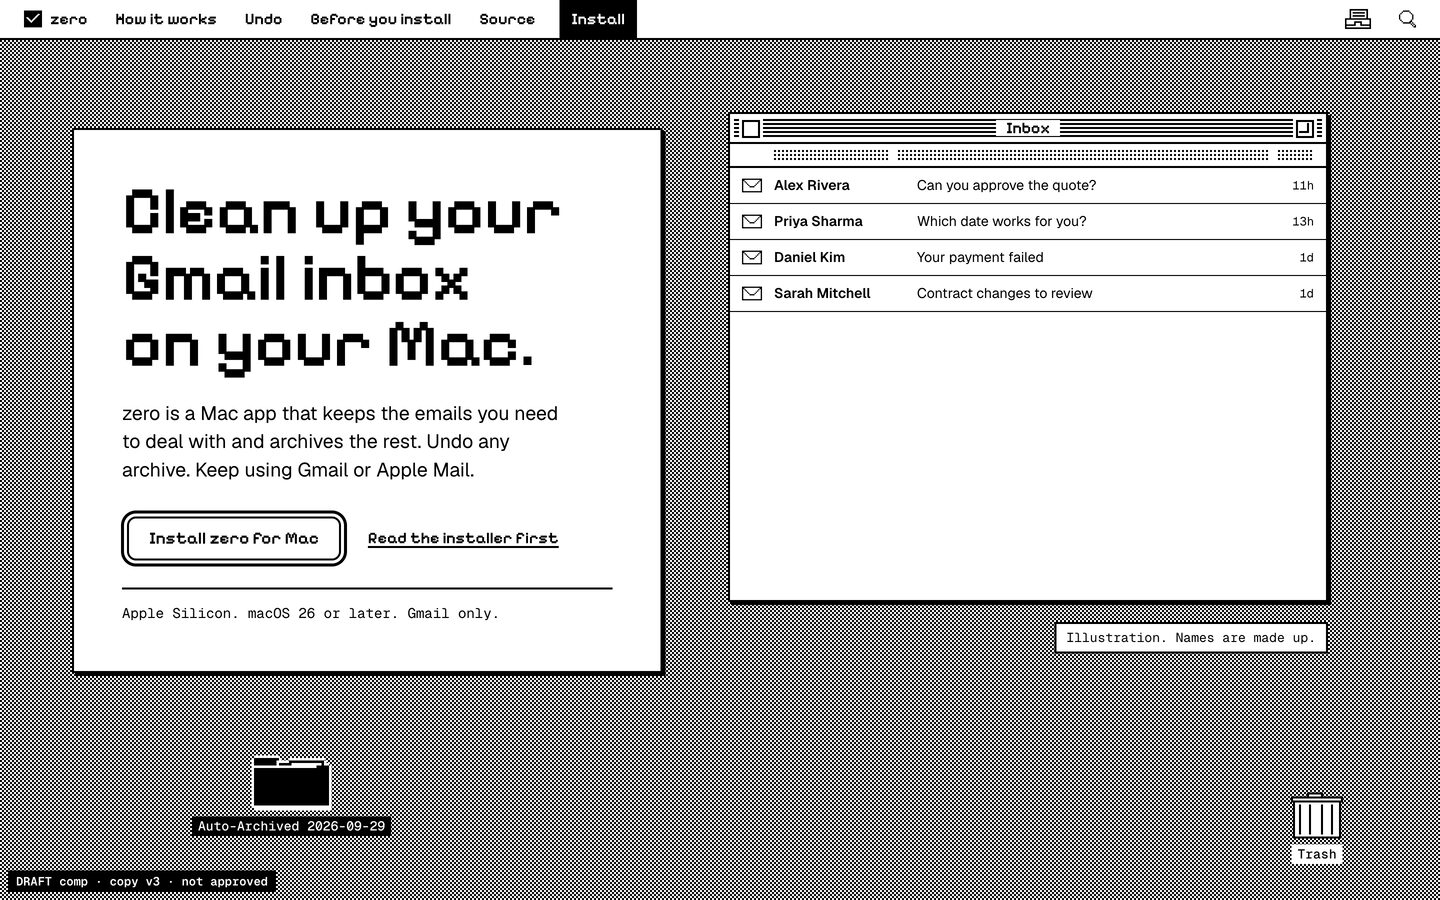
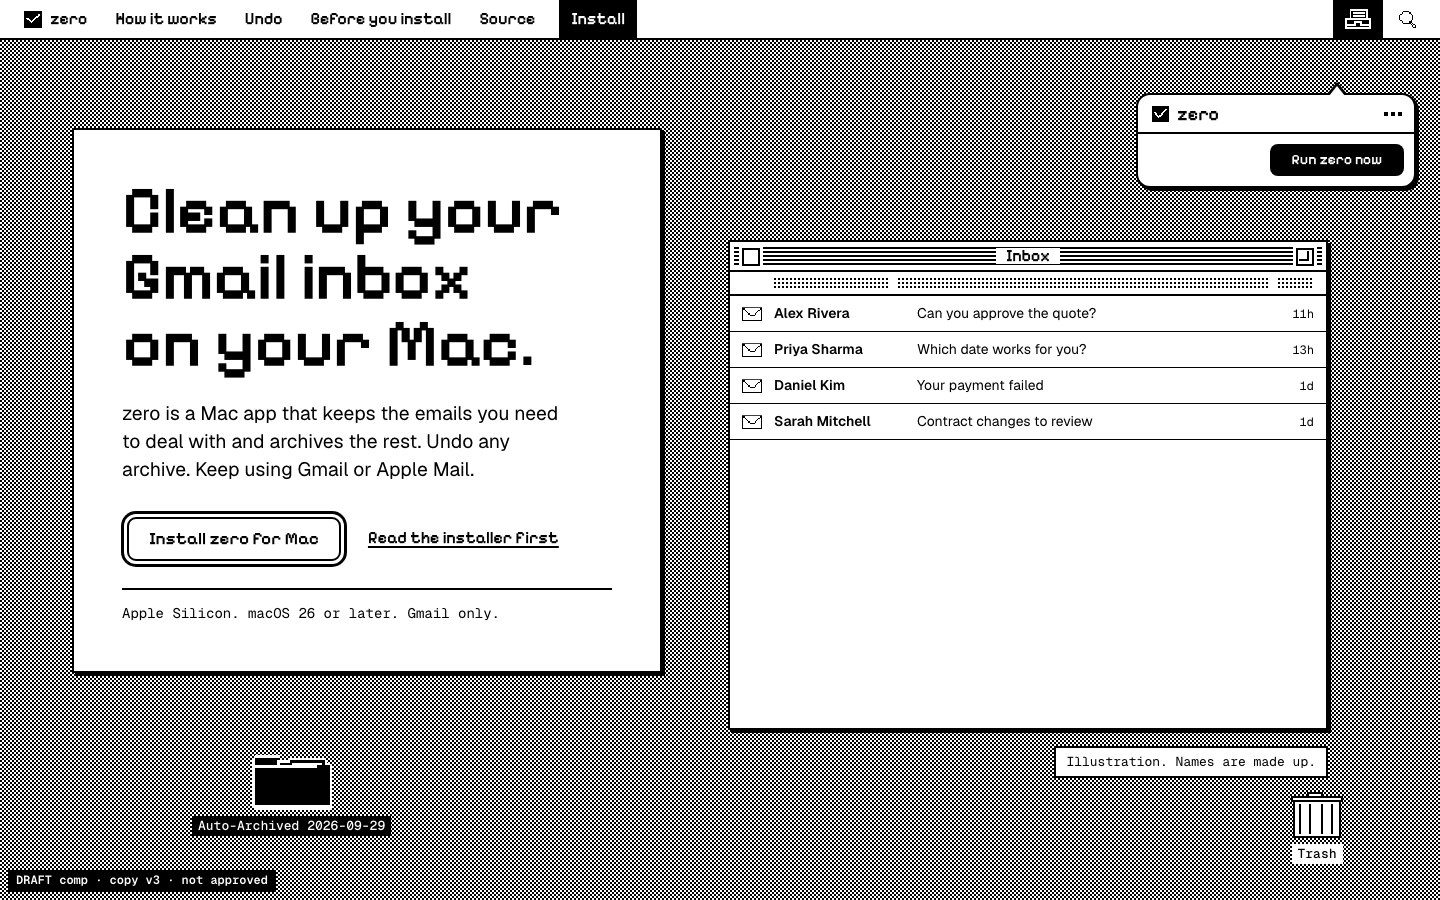
redesign-3/02: hero B rework, zero is the only actor (popover, Working…, watch drag)

diff --git a/missions/website-redesign-3/slices/02-references-and-comps/proof/comps/hero-b/index.html b/missions/website-redesign-3/slices/02-references-and-comps/proof/comps/hero-b/index.html
@@ -6,10 +6,13 @@
 <title>Hero B · Finder inbox · zero redesign 3 comp (draft)</title>
 <link rel="stylesheet" href="../kit/kit.css">
 <style>
-/* Hero B: "Your inbox is a Finder window." One big Inbox list window is the hero. zero selects the routine mail
-   (the rows invert one by one), then the selection is dragged as outlines into today's dated folder, exactly the way
-   a Mac drags files. What remains is the four emails that need you. No popover and no counter: the list itself is the proof.
-   Strings: only the hero-panel rows, "Inbox", the folder label and Trash (all already counted in COPY v3). */
+/* Hero B (owner's pick, reworked so zero is the actor): "Your inbox is a Finder window."
+   zero's menu-bar popover opens from its tray icon. Run zero now turns to Working…, and only then does a cursor appear:
+   zero's watch, which comes out of the Working… button, selects the routine mail (rows invert one by one) and drags the
+   selection as outlines into today's dated folder the way a Mac drags files. The watch goes back to the button, the button
+   reads Run zero now again and the watch disappears. There is never an arrow pointer, so nobody's hand moves the mail.
+   Strings: the popover's zero mark, Run zero now, Working…, the hero-panel rows and ages, "Inbox", the folder label,
+   Trash and the caption (all in COPY v3, recounted by the copywriter). */
 .hero{position:relative;min-height:calc(100vh - 40px);padding:56px var(--pad) 48px;display:grid;gap:28px;justify-items:center}
 .sheet{position:relative;z-index:3;padding:clamp(24px,3.4vw,48px);width:100%;max-width:640px}
 .sheet h1{font-size:clamp(42px,4.7vw,70px);line-height:.98;margin-bottom:22px}
@@ -42,17 +45,34 @@
 .folder svg{width:80px}
 .trash svg{width:52px}
 svg.px.f-empty{display:none}
-.drop{position:absolute;z-index:37;border:2px dashed var(--ink);pointer-events:none}
+/* drag outlines pass behind the headline sheet (z 3), never across its text, and over the Inbox (same z, later in DOM) */
+.drop{position:absolute;z-index:2;border:2px dashed var(--ink);pointer-events:none}
+
+/* zero's popover: only its head and its run button (no count, no rows: the Inbox window is the proof) */
+.pop{z-index:4;width:100%;max-width:280px;justify-self:end}
+.pop .zp-foot{margin-top:0;border-top:0}
+.zp-run{min-width:9.6em;justify-content:center}
+.zp-run .busy{display:none}
 
 @media (min-width:1240px){
   .hero{display:block;min-height:max(860px,calc(100vh - 40px))}
   .sheet{position:absolute;left:var(--pad);top:88px;width:min(600px,41vw)}
-  #inbox{position:absolute;right:calc(var(--pad) + 40px);top:72px;width:min(600px,42vw)}
-  .hero > .caption{position:absolute;right:calc(var(--pad) + 40px);top:calc(72px + 30px + 26px + 12 * 36px + 22px)}
+  .pop{position:absolute;right:24px;top:53px}
+  #inbox{position:absolute;right:calc(var(--pad) + 40px);top:200px;width:min(600px,42vw)}
+  .hero > .caption{position:absolute;right:calc(var(--pad) + 40px);top:calc(200px + 30px + 26px + 12 * 36px + 18px)}
   .folder{position:absolute;left:calc(var(--pad) + 120px);bottom:64px}
   .trash{position:absolute;right:48px;bottom:36px}
 }
 @media (max-width:1239px){
+  .pop{max-width:600px;justify-self:center;order:1}
+  /* stacked layouts: zero's popover, then the folder and Trash, then the Inbox, so the drop target is in view with the
+     button. The window fits its rows, so the finished inbox is 4 rows, not 4 rows and a blank page. The shrink happens
+     once, at the end, and only moves what is below the Inbox (the caption). */
+  .hero .files{order:2}
+  #inbox{order:3}
+  .hero > .caption{order:4}
+  #inbox .list{height:auto}
+  .pop .zp.notch::before,.pop .zp.notch::after{display:none}
   .hero .files{display:flex;justify-content:space-between;align-items:end;width:100%;max-width:640px}
   .hero > .caption{justify-self:center}
 }
@@ -71,11 +91,18 @@ svg.px.f-empty{display:none}
 .files{display:contents}
 
 /* ---------- earlier frames (lt-K = before frame K) ---------- */
-.lt-3 #inbox li.g{display:grid}
-.lt-3 .folder:not(.got) svg.px.f-full{display:none}
-.lt-3 .folder:not(.got) svg.px.f-empty{display:block}
-.lt-3 .folder:not(.got) .lbl{background:var(--paper);color:var(--ink)}
-.lt-3 .folder:not(.got) svg{filter:none}
+/* 0 closed popover, 1 popover open, 2-4 Working… (select, drag), 5 final: idle again */
+.lt-1 .pop{visibility:hidden}
+.lt-1 .tray{background:var(--paper)!important;color:var(--ink)!important}
+.lt-1 .tray svg{filter:none!important}
+.lt-5:not(.lt-2) .zp-run{background:var(--paper);color:var(--ink);box-shadow:inset 0 0 0 2px var(--ink)}
+.lt-5:not(.lt-2) .zp-run .idle{display:none}
+.lt-5:not(.lt-2) .zp-run .busy{display:inline}
+.lt-5 #inbox li.g{display:grid}
+.lt-5 .folder:not(.got) svg.px.f-full{display:none}
+.lt-5 .folder:not(.got) svg.px.f-empty{display:block}
+.lt-5 .folder:not(.got) .lbl{background:var(--paper);color:var(--ink)}
+.lt-5 .folder:not(.got) svg{filter:none}
 .folder.over svg{filter:invert(1)!important}
 </style>
 </head>
@@ -105,7 +132,7 @@ svg.px.f-empty{display:none}
   <a class="nav-hide" href="https://github.com/drewling/zero">Source</a>
   <a class="install" href="#install">Install</a>
   <span class="spacer"></span>
-  <span class="mi tray" aria-hidden="true"><svg class="px" viewBox="0 0 17 13"><use href="#tray"/></svg></span>
+  <span class="mi tray on" aria-hidden="true"><svg class="px" viewBox="0 0 17 13"><use href="#tray"/></svg></span>
   <span class="mi find" aria-hidden="true"><svg class="px" viewBox="0 0 13 13"><use href="#find"/></svg></span>
 </header>
 
@@ -121,7 +148,14 @@ svg.px.f-empty{display:none}
     <p class="req">Apple Silicon. macOS 26 or later. Gmail only.</p>
   </div>
 
-  <p class="sr-only">Illustration: a Gmail inbox shown as a Mac list window. zero selects eight routine emails and they are dragged into a dated Auto-Archived folder. Four emails that need a reply or action stay. The Trash stays empty.</p>
+  <p class="sr-only">Illustration: zero's menu-bar window shows Run zero now, then Working…. While it works, zero selects eight routine emails in a Gmail inbox shown as a Mac list window and drags them into a dated Auto-Archived folder. Four emails that need a reply or action stay. The Trash stays empty.</p>
+
+  <div class="pop" aria-hidden="true">
+    <div class="zp notch" style="--notch:66px">
+      <div class="zp-head"><span class="zp-mark"><svg class="px" viewBox="0 0 16 15"><use href="#check"/></svg>zero</span><span class="zp-more"><i></i><i></i><i></i></span></div>
+      <div class="zp-foot"><span class="zp-run"><span class="idle">Run zero now</span><span class="busy">Working…</span></span></div>
+    </div>
+  </div>
 
   <div class="win" id="inbox" aria-hidden="true">
     <div class="bar"><span class="box close"></span><span class="t">Inbox</span><span class="box zoom"></span></div>
@@ -170,22 +204,29 @@ svg.px.f-empty{display:none}
     d.style.left = Math.round(b.x + (a.x - w / 2 - b.x) * t) + 'px'; d.style.top = Math.round(b.y + (a.y - h / 2 - b.y) * t) + 'px';
     d.style.width = Math.round(w) + 'px'; d.style.height = Math.round(h) + 'px'; }); };
 
-  Zm.when(root, { onLoad: true, delay: 700, cursorMinWidth: 760, frames: [
-    // 0: a full inbox of 12, the cursor off to the side
-    { cursor: { sel: '#inbox', fx: .2, fy: 1.08 }, set: () => clear() },
-    // 1: zero picks the routine mail: the watch appears and the 8 rows invert one at a time
-    { cursor: { sel: '#inbox li.g', fx: .35, fy: .5 }, kind: 'watch', cursorSteps: 6, cursorMs: 300, hold: 250,
+  // No frame has an arrow pointer. The only cursor is zero's watch, which exists only while the button reads Working….
+  Zm.when(root, { onLoad: true, delay: 600, cursorMinWidth: 760, frames: [
+    // 0: a full inbox of 12, zero's popover closed, no cursor
+    { set: () => clear() },
+    // 1: zero's popover opens from its tray icon, showing Run zero now
+    { hold: 450, enter: (r, z) => z.zoom(r, '.tray', '.zp', { steps: 5, ms: 240 }),
+      still: (r, z) => z.zoom(r, '.tray', '.zp', { still: true, steps: 3 }) },
+    // 2: zero starts: the button reads Working… and zero's watch appears on it
+    { cursor: { sel: '.zp-run', fx: .5, fy: .55 }, kind: 'watch', hold: 420 },
+    // 3: the watch leaves the button and selects the routine mail: the 8 rows invert one at a time
+    { cursor: { sel: '#inbox li.g', fx: .35, fy: .5 }, kind: 'watch', cursorSteps: 6, cursorMs: 320, hold: 250,
       enter: async (r, z) => { for (const li of gs()) { li.classList.add('sel'); await z.wait(70); } },
       still: () => selectAll() },
-    // 2: the selection is dragged: outlines step from the rows to the folder, and the folder highlights as the drop target
-    { cursor: { sel: shownIcon, fx: .6, fy: .5 }, cursorSteps: 7, cursorMs: 560, hold: 120,
+    // 4: the watch drags the selection: outlines step from the rows to the folder, the folder highlights as the drop target
+    { cursor: { sel: shownIcon, fx: .6, fy: .5 }, kind: 'watch', cursorSteps: 7, cursorMs: 560, hold: 260,
       set: () => selectAll(),
       enter: async (r, z) => { const os = outlines(); folder.classList.add('over');
         for (let s = 1; s <= 7; s++) { stepOutlines(os, s / 7); await z.wait(80); }
         os.forEach(o => o.d.remove()); gs().forEach(li => li.style.visibility = 'hidden'); folder.classList.remove('over'); folder.classList.add('got'); },
       still: () => { selectAll(); const os = outlines(); stepOutlines(os, .5); folder.classList.add('over'); } },
-    // 3: final (the HTML default): 4 stay in a quiet window, the folder is full, the Trash is empty
-    { cursor: { sel: '#inbox', fx: .9, fy: 1.06 }, cursorSteps: 4, cursorMs: 200,
+    // 5: final (the HTML default): zero is done, so the watch is gone and the button reads Run zero now again.
+    //    4 stay in a quiet window, the folder is full, the Trash is empty
+    {
       set: () => { gs().forEach(li => { li.classList.remove('sel'); li.style.visibility = ''; }); folder.classList.remove('over'); } }
   ]});
 })();

diff --git a/missions/website-redesign-3/slices/02-references-and-comps/proof/comps/kit/motion.js b/missions/website-redesign-3/slices/02-references-and-comps/proof/comps/kit/motion.js
@@ -141,6 +141,7 @@
         const to = target(root, f.cursor);
         showCursor(f); setCursorKind(c, f.kind);
         if (at && to) await stepMove(c, at, to, f.cursorSteps || 6, f.cursorMs || 240);
+        else if (to) place(c, to.x, to.y); // the cursor's first appearance: put it there, don't slide in from 0,0
         at = to;
       } else showCursor(f);
       setFrame(root, k, n);

diff --git a/missions/website-redesign-3/slices/02-references-and-comps/proof/MOTION-SPEC.md b/missions/website-redesign-3/slices/02-references-and-comps/proof/MOTION-SPEC.md
@@ -2,7 +2,9 @@
 
 Status: **draft for development-motion@zero**. Nothing here is approved for `landing/`. Implementation waits for main-lead's authorization after owner gate B. Any prototype belongs in slice 04 `proof/sandbox/`.
 
-Reference prototype: `comps/kit/motion.js` (the `Zm` runner) plus `comps/hero-a/index.html`. To serve it, run `python3 -m http.server` from `proof/comps`. The page supports `?frame=N` for a still of frame N and `?static` for the end state.
+**Update 2026-09-29 22:50Z: the owner picked hero B.** Build from §3.0 below. §3 (hero A) and the old B row in §3b are kept only as history. The rest of the page (sections) is **not** approved and is being rethought, so §4 is on hold.
+
+Reference prototype: `comps/kit/motion.js` (the `Zm` runner) plus `comps/hero-b/index.html`. To serve it, run `python3 -m http.server` from `proof/comps`. The page supports `?frame=N` for a still of frame N and `?static` for the end state.
 
 ## 1. Grammar (applies to every motion on the site)
 
@@ -31,7 +33,42 @@ Reference prototype: `comps/kit/motion.js` (the `Zm` runner) plus `comps/hero-a/
 
 Explicitly out: parallax, scroll-jacking, typewriter text, glitch or CRT effects, confetti, springy UI, and motion on body copy or headings. Text never moves.
 
-## 3. Hero storyboard (comp A, "the menu-bar roll", 5 frames, ~5 s)
+## 3.0 Hero storyboard: comp B, "zero drags it" (the owner's pick, 6 frames, ~4.6 s measured)
+
+The owner's constraint is that **zero is the actor**. The hero must never suggest that the visitor drags mail by hand. So:
+
+- **There is no arrow pointer in any frame.** The only cursor is zero's **watch**. It appears *on* the `Working…` button, does the selecting and dragging, and is gone when the button reads `Run zero now` again. Its lifetime equals the `Working…` state. That coupling is what makes it zero's hand and not the visitor's.
+- Opening the popover is zoom rects stepping out from the tray icon, with no click shown. (It's a still-frame story, and zero's menu-bar window being open is enough.)
+- On touch or below 760px there is no cursor at all (the §1 rule). The same frames play, and the `Working…` label plus the rows inverting carry the "zero is doing it" meaning.
+
+Stills: `storyboard/hero-b-frame-0..5.jpg`, strip `storyboard/hero-b-strip.jpg`. Final shots: `comps/hero-b/hero-b-1440.jpg`, `-390.jpg`.
+
+| # | Frame | What moves | Timing |
+|---|---|---|---|
+| 0 | **Cluttered.** Inbox window, 12 rows (4 readable, 8 greeked). The folder `Auto-Archived 2026-09-29` is empty and Trash is on the desktop. zero's popover is closed. No cursor. | nothing | hold 600 ms |
+| 1 | **zero opens.** Zoom rects step from the tray icon to the popover box, and the popover appears: zero mark plus `Run zero now`. | zoom 5 steps | 240 ms, hold 450 |
+| 2 | **zero starts.** The button swaps to `Working…` (paper on ink with an outline). zero's watch appears on the button. | swap (1 step), watch placed (no travel) | hold 420 |
+| 3 | **zero selects.** The watch steps from the button to the first routine row. The 8 routine rows invert one at a time. | watch 6 steps, 8 inverts | 320 ms + 8 × 70 ms, hold 250 |
+| 4 | **zero drags.** Dashed outlines, one per selected row, step together from the rows into the folder in 7 steps as they shrink to icon size. The watch travels with them. The folder inverts as the drop target, the rows go, and the folder fills. Outlines pass *behind* the headline sheet (z-index below it), never over its text. | watch 7 steps, outlines 7 × 80 ms | ~560 ms, hold 260 |
+| 5 | **Done (the HTML default).** The watch is gone. The button reads `Run zero now` again. Inbox holds the 4 rows (`Alex Rivera · Can you approve the quote? · 11h`, `Priya Sharma · Which date works for you? · 13h`, `Daniel Kim · Your payment failed · 1d`, `Sarah Mitchell · Contract changes to review · 1d`). The folder is full and selected. Trash is empty. | none | — |
+
+Layout:
+- At ≥1240px the popover hangs from the tray (the notch points at it), with the Inbox on the right and the headline plate on the left.
+- Below 1240px the stack is headline, then popover, then folder and Trash, then Inbox, then caption. That keeps the button and the drop target together near the top.
+- The stacked Inbox list is `height:auto`, so the final window is 4 rows and not a mostly blank window. That resize happens once, at the end, and only moves the caption below it.
+
+Honesty rules for B:
+- No arrow pointer.
+- The watch only exists during `Working…`.
+- Nothing enters Trash.
+- The final 4 rows are the COPY v3 strings exactly.
+- The only strings are the ones the copywriter counted: zero mark, `Run zero now`, `Working…`, `Inbox`, the rows and ages, the folder, `Trash` and the caption. Provisional count is 532/550.
+
+Measured (Playwright Chromium, live playback to `data-mode=done`): 1440, about 4.6 s. 390, about 3.7 s, with no cursor. There are 0 console errors. Sampled live states are `Run zero now` with no cursor, then `Working…` with the watch, then `Run zero now` with no cursor. No arrow cursor ever appears.
+
+Kit change: `motion.js` now *places* a cursor at its first target when the previous frame had none, instead of sliding it in from 0,0. This affects any story whose first frame has no cursor. A, C and the sections all start with a cursor, so they're unchanged.
+
+## 3. Hero storyboard (comp A, "the menu-bar roll", 5 frames, ~5 s). Superseded by 3.0; kept for history
 
 Each frame can be viewed as a still with `?frame=N`. Screenshots are in `storyboard/`.
 
@@ -51,7 +88,7 @@ Honesty rules for the storyboard:
 
 ### 3b. Alternative hero storyboards (comps B and C, 4 frames each)
 
-These are kept for comparison. The brief recommends A. Stills are `storyboard/hero-b-frame-0..3.jpg`, `hero-c-frame-0..3.jpg` and each `*-strip.jpg`.
+History. The B column below is the **pre-rework** B. The reworked B is §3.0, and its stills now occupy `hero-b-frame-0..5.jpg`. C stills are `hero-c-frame-0..3.jpg`.
 
 | # | B, "the Finder select" | C, "the poster and two windows" |
 |---|---|---|
@@ -60,9 +97,11 @@ These are kept for comparison. The brief recommends A. Stills are `storyboard/he
 | 2 | Dashed drag outlines step from the 8 rows into the folder in 7 steps. The folder highlights as the drop target. | The 8 rows step across as solid blocks, one at a time, and fill the archive slots. |
 | 3 | Final: 4 rows remain, the folder is full and Trash is empty. | Final: Inbox holds 4 rows, the archive holds 8. |
 
-Why A wins: B reads as "you drag mail yourself" (a manual Finder action zero doesn't ask for), and it has no count. C is calm and clear, but it drops the menu-bar tray, which is where zero actually lives, and it pushes both windows below the headline plate at 1440×900.
+Why A was recommended at first: the pre-rework B read as "you drag mail yourself" (a manual Finder action zero doesn't ask for), and it had no count. C is calm and clear, but it drops the menu-bar tray, which is where zero actually lives, and it pushes both windows below the headline plate at 1440×900. The owner chose B. §3.0 removes the manual-drag reading by making zero's popover and watch the only actor. B still has no count, and the Inbox window going from 12 rows to 4 is the proof.
 
 ## 4. Section motion (one beat each, played on first view)
+
+> **On hold (22:50Z).** The owner has not approved the sections. They are being rethought with the copywriter, so do not prototype these beats. Note that the section 1 beat below (rows hopping from Stays to Archived) would replay the new hero B. Whatever replaces section 1 must not repeat the sort.
 
 These are proposals. Only the demo beat is built as motion in `comps/sections/`. The Undo ants are static CSS there, and the other beats are spec only. Each plays once, and its final frame is the HTML default.
 

diff --git a/missions/website-redesign-3/slices/02-references-and-comps/proof/DESIGN-BRIEF.md b/missions/website-redesign-3/slices/02-references-and-comps/proof/DESIGN-BRIEF.md
@@ -4,6 +4,23 @@ Status: **proof only, not approved.** Nothing in `landing/` has changed. Every c
 
 ## Recommendation
 
+> **Owner decision, 22:33Z and 22:36Z: hero B is approved. The rest of the page is not.** The recommendation below (A) is kept as the record of what was proposed. What follows is the B rework the owner's pick required. The whole-page rethink (outline, section objects, copy) is a separate proposal in progress with design-copywriter. Its before evidence is frozen in `baseline-v3/` (commit a196c47).
+>
+> **The risk with B, and the fix.** The original B showed an arrow pointer selecting rows and dragging them into a folder. A visitor would reasonably read that as "I drag my mail into folders", which is manual work zero exists to remove. In the rework, **zero is the only actor on screen:**
+>
+> 1. zero's menu-bar popover opens from its tray icon with `Run zero now`.
+> 2. The button turns to `Working…`, and **zero's watch** appears on that button. It is the only cursor on the page, and it exists only while zero is working.
+> 3. The watch selects the 8 routine rows and drags them into `Auto-Archived 2026-09-29`.
+> 4. The watch disappears and the button reads `Run zero now` again.
+>
+> There is no arrow pointer in any frame, so there's no "you" in the scene. On phones, where no cursor is drawn, `Working…` plus the rows inverting by themselves carries the same meaning. The end state is honest in every mode (live, reduced motion, no JS): 4 kept, 8 in the dated folder, Trash empty.
+>
+> - **Strings.** The only strings added are the zero mark, `Run zero now` and `Working…`, all from COPY v3. The copywriter's provisional count is 532/550.
+> - **Motion.** See `MOTION-SPEC.md` §3.0 (6 frames, about 4.6 s measured at 1440 in Chromium).
+> - **Evidence.** Stills are in `storyboard/hero-b-frame-0..5.jpg` and `hero-b-strip.jpg`. Final shots are `comps/hero-b/hero-b-1440.jpg` and `-390.jpg`.
+>
+> **How B changes the sections.** The hero now shows the whole sort, inbox to folder. The old section 1 (`Stays` / `Archived` windows with the same rows hopping across) repeats it almost frame for frame, so it can't stay as it is. The rethink tests replacing it with something the hero doesn't show, such as opening the dated folder next to zero's Undo, and at least one genuinely shorter outline. It doesn't default to trimming section 1.
+
 **Pick hero A, "the menu-bar roll", and the section set in `comps/sections/`.**
 
 Hero A is the only option that shows where zero actually lives. The tray icon in the menu bar opens zero's popover. `Run zero now` becomes `Working…`, eight envelopes hop into `Auto-Archived 2026-09-29`, and the count settles at **4 things still need you**. It tells the product story in one pass: *click, sort, the mail that needs you stays, nothing goes to Trash*. The headline plate, the proof (the popover) and the action (the install button) read left to right in that order.
